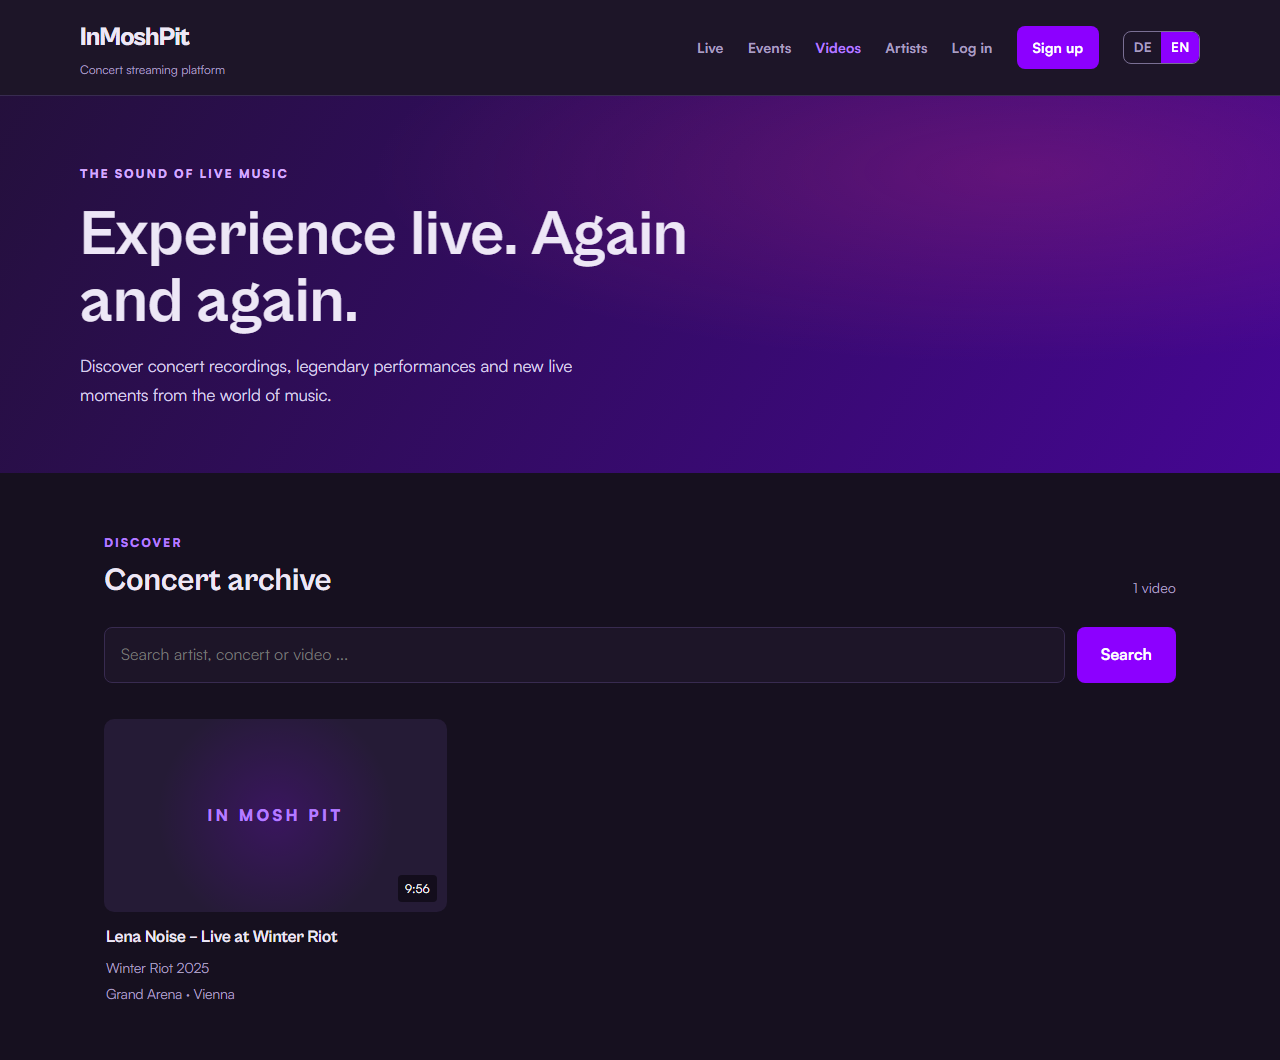
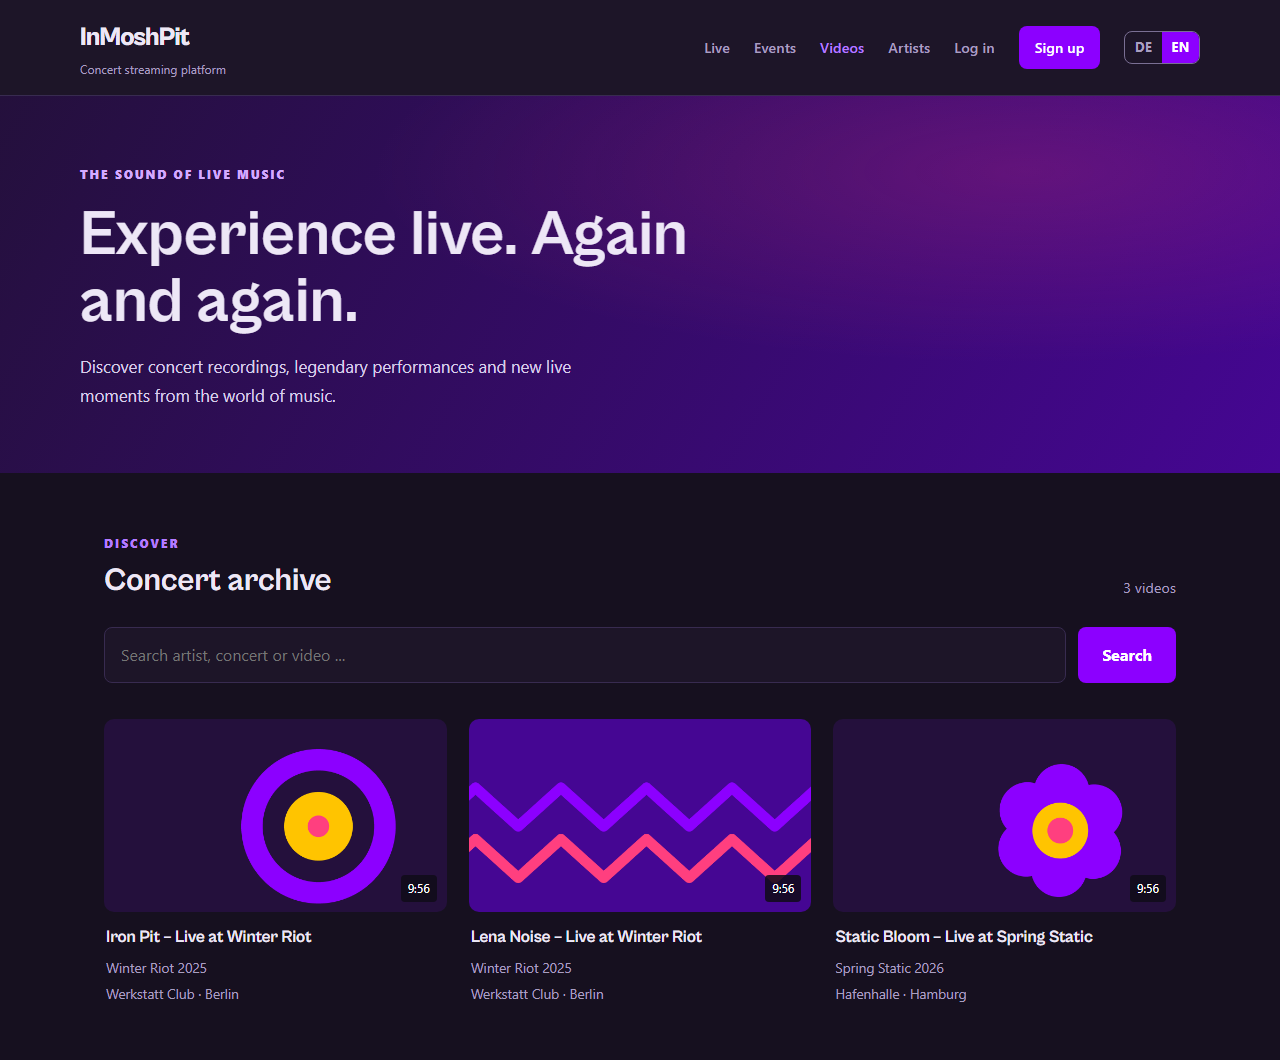
Update README screenshots with the generated covers
Retake the four screenshots from the new demo data: live streams, events in
several cities, the recordings archive and an upcoming stream countdown. All
images are generated artwork, no photos or third-party material.

diff --git a/README.md b/README.md
@@ -15,12 +15,12 @@ with the recordings. Available in German and English.
 
 <table>
   <tr>
-    <td width="50%"><img src="docs/screenshots/streams.png" alt="Live streams overview"><br><sub>Live streams: live now, coming up, past</sub></td>
-    <td width="50%"><img src="docs/screenshots/stream-countdown.png" alt="Countdown for an upcoming stream"><br><sub>Countdown for an upcoming stream</sub></td>
+    <td width="50%" valign="top"><img src="docs/screenshots/streams.png" alt="Live streams overview"><br><sub>Live streams: live now and coming up</sub></td>
+    <td width="50%" valign="top"><img src="docs/screenshots/events.png" alt="Events overview"><br><sub>Concerts and festivals in several cities</sub></td>
   </tr>
   <tr>
-    <td width="50%" valign="top"><img src="docs/screenshots/events.png" alt="Events overview"><br><sub>Concerts and festivals</sub></td>
     <td width="50%" valign="top"><img src="docs/screenshots/videos.png" alt="Concert recordings archive"><br><sub>Recordings archive</sub></td>
+    <td width="50%" valign="top"><img src="docs/screenshots/stream-countdown.png" alt="Countdown for an upcoming stream"><br><sub>Countdown for an upcoming stream</sub></td>
   </tr>
 </table>
 
